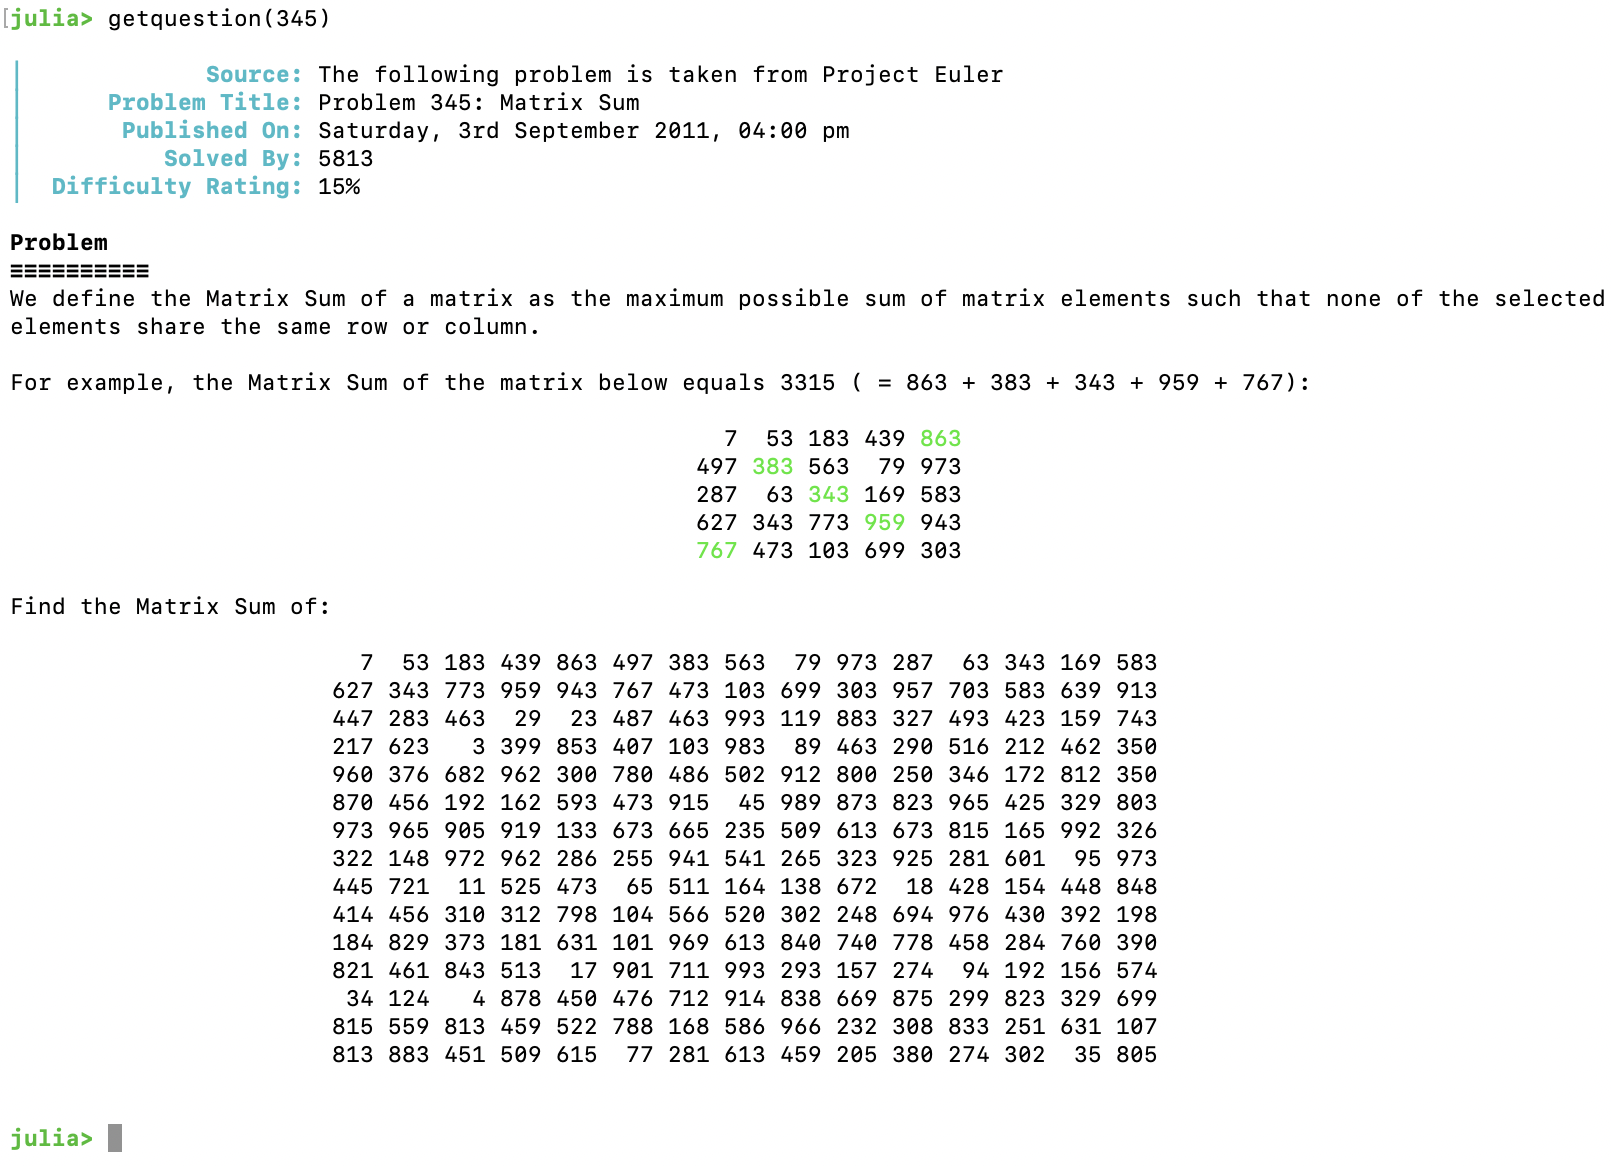
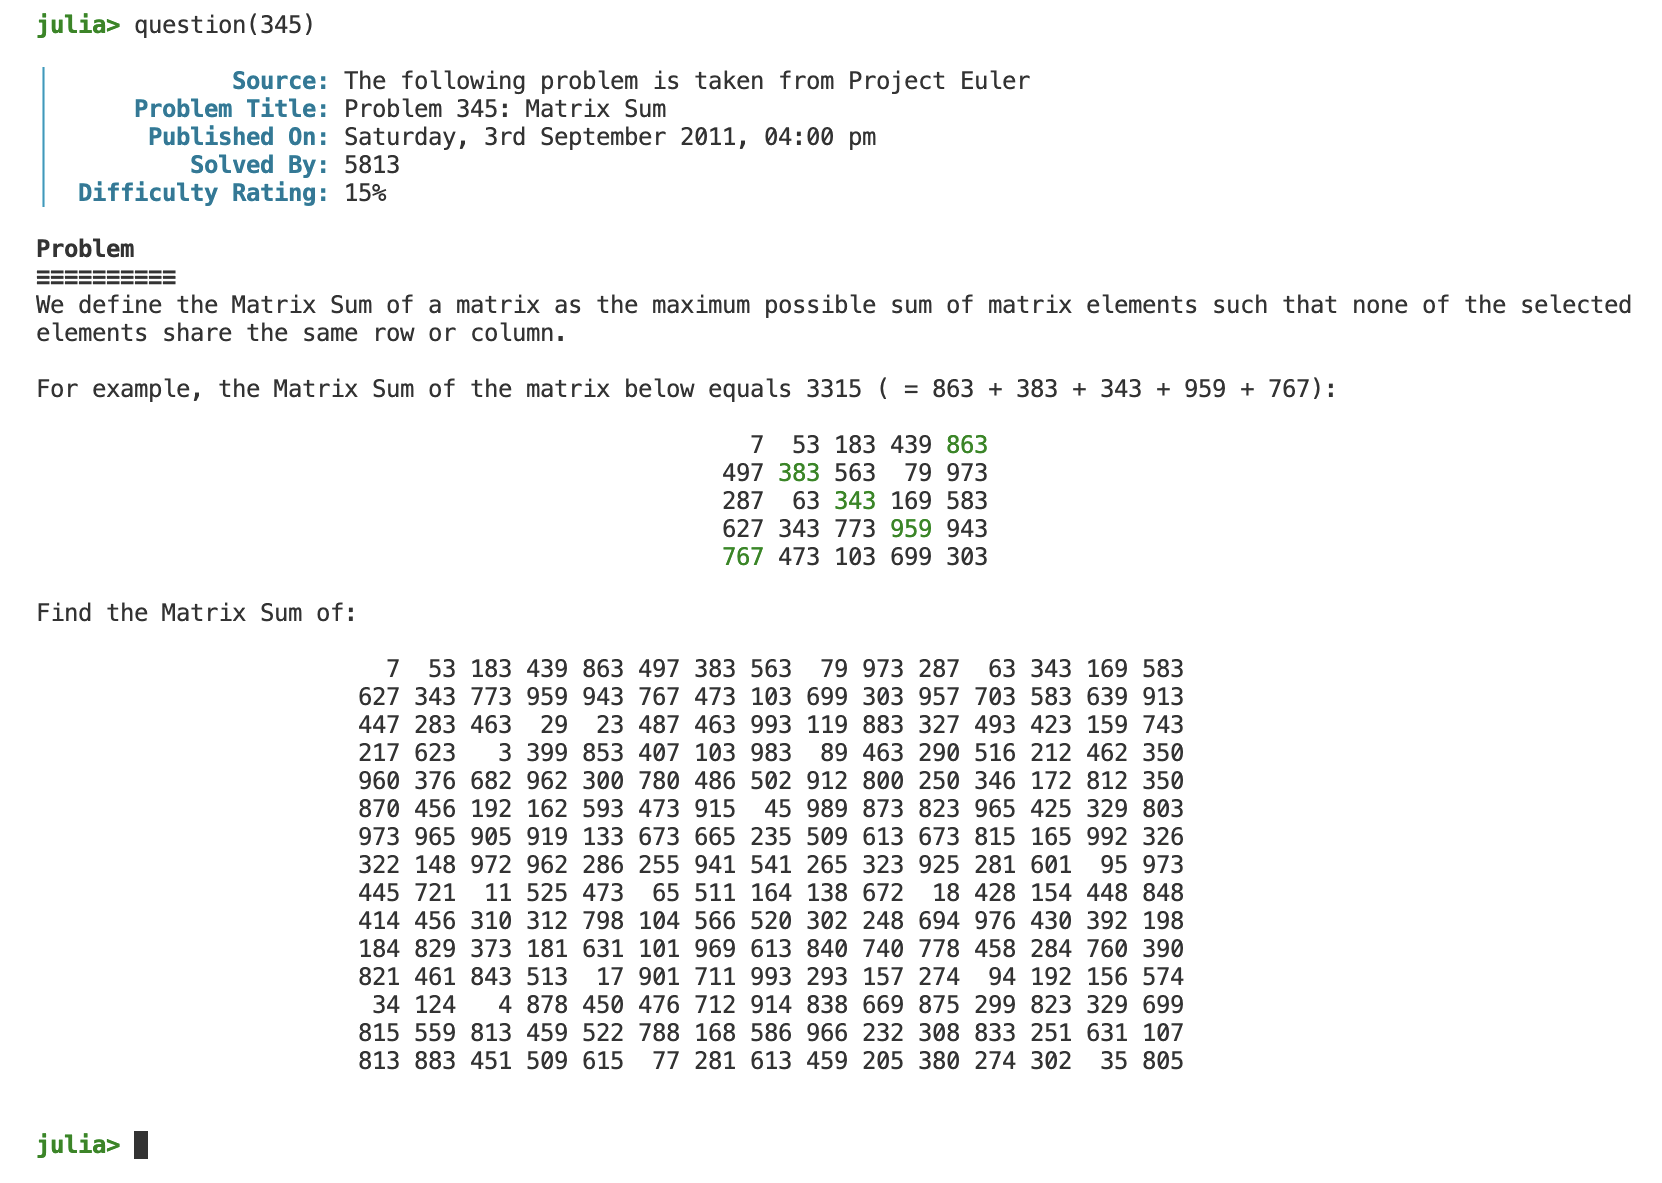
change getquestion to question and add it to the public API

diff --git a/README.md b/README.md
@@ -32,11 +32,11 @@ julia> using ProjectEuler
 ```
 
 # Usage
-Currently, this package provides only one function: `getquestion`. However, there are plans to
+Currently, this package provides only one function: `question`. However, there are plans to
 support two more important ones, as indicated [here](https://github.com/udohjeremiah/ProjectEuler.jl/blob/4137c80ac3778a93c8103ce794e98f3be9f7c8eb/src/problemutils.jl#L55-L58).
 
-## getquestion
-The `getquestion` function takes only one argument, an `Integer` value, and then it returns
+## question
+The `question` function takes only one argument, an `Integer` value, and then it returns
 a struct of type `Problem`. The `content` field of the returned `Problem` struct is edited to
 render it as identical as possible to its appearance on https://projecteuler.net. An example
 is shown below:
@@ -47,7 +47,7 @@ is shown below:
 
 Some problems have not been edited yet because they require an image or a complex
 mathematical equation (which, unfortunately, Julia's REPL cannot render at present).
-Therefore, passing certain values to `getquestion` will result in an error.
+Therefore, passing certain values to `question` will result in an error.
 
 ## Screen Size
 To fully experience all the questions, you may need to increase the width of your terminal
